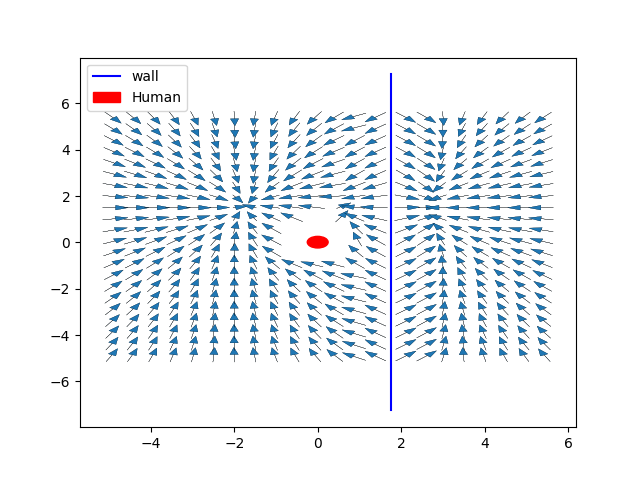
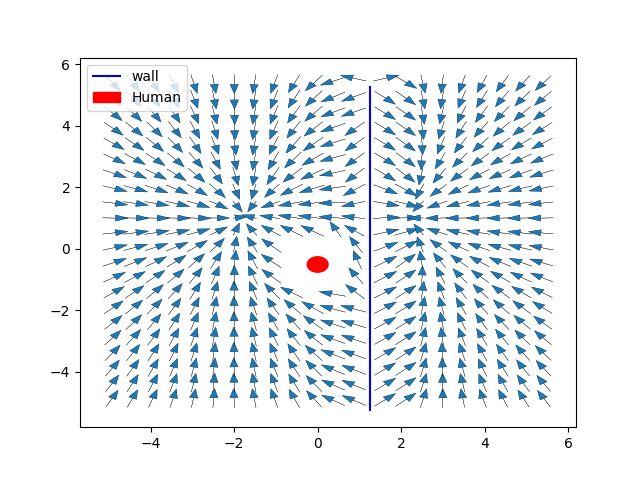
Changes intersect calculation

diff --git a/scripts/VirtualSpring.py b/scripts/VirtualSpring.py
@@ -179,12 +179,12 @@ class VirtualSpring:
         
         if intersect(obstacle_pos[0], obstacle_pos[1], human, self.robot_position):
           hit = True
-          closest_end_point = obstacle_pos[0] if self.dist(obstacle_pos[0], human) < self.dist(obstacle_pos[1], human) else obstacle_pos[1]
+          closest_end_point = obstacle_pos[0] if self.dist(obstacle_pos[0], self.robot_position) < self.dist(obstacle_pos[1], self.robot_position) else obstacle_pos[1]
           if (closest_point_on_line[0] != closest_end_point[0]) or closest_point_on_line[1] != closest_end_point[1]:
             force = (closest_end_point - closest_point_on_line) / np.linalg.norm(closest_end_point - closest_point_on_line) * self.vel_cap * 1.5
             robot_velocity += force
           else:
-            further_point = obstacle_pos[1] if self.dist(obstacle_pos[0], human) < self.dist(obstacle_pos[1], human) else obstacle_pos[0]
+            further_point = obstacle_pos[1] if self.dist(obstacle_pos[0], self.robot_position) < self.dist(obstacle_pos[1], self.robot_position) else obstacle_pos[0]
             force = (closest_end_point - np.array(further_point)) / np.linalg.norm(closest_end_point -  np.array(further_point)) * self.vel_cap * 1
             robot_velocity += force
 
@@ -192,7 +192,7 @@ class VirtualSpring:
         elif not hit and self.dist(closest_point_on_line, self.robot_position) < 1:
           diff1 = closest_point_on_line - human[0:2]
           force = ((((closest_point_on_line) + diff1 * 100) - closest_point_on_line) / np.linalg.norm(np.array([closest_point_on_line, (closest_point_on_line) + diff1 * 100] )) * -1 / self.dist(closest_point_on_line, self.robot_position) * self.OCCLUSION_CONSTANT)
-          #occlusion_avoidance_force += force
+          occlusion_avoidance_force += force
     if not hit:
       robot_velocity += occlusion_avoidance_force
 
@@ -211,7 +211,7 @@ class VirtualSpring:
       vel1 = np.array(list(map(lambda x: self.HUMAN_K_VALUE * (x[0] - x[1]), zip(desired_position, self.robot_position))))
       vel2 = np.array(list(map(lambda x: self.HUMAN_K_VALUE * (x[0] - x[1]), zip(desired_position2, self.robot_position))))
       
-      robot_attractive = vel1 if np.linalg.norm(vel1 + robot_velocity)/(self.dist(desired_position, self.robot_position))**2 > np.linalg.norm(vel2 + robot_velocity)/(self.dist(desired_position2, self.robot_position))**2 else vel2
+      robot_attractive = vel1 #if np.linalg.norm(vel1 + robot_velocity)/(self.dist(desired_position, self.robot_position))**2 > np.linalg.norm(vel2 + robot_velocity)/(self.dist(desired_position2, self.robot_position))**2 else vel2
       robot_attractive = robot_attractive if np.linalg.norm(robot_attractive) < self.vel_cap else robot_attractive / np.linalg.norm(robot_attractive) * self.vel_cap
       robot_velocity += robot_attractive
     
